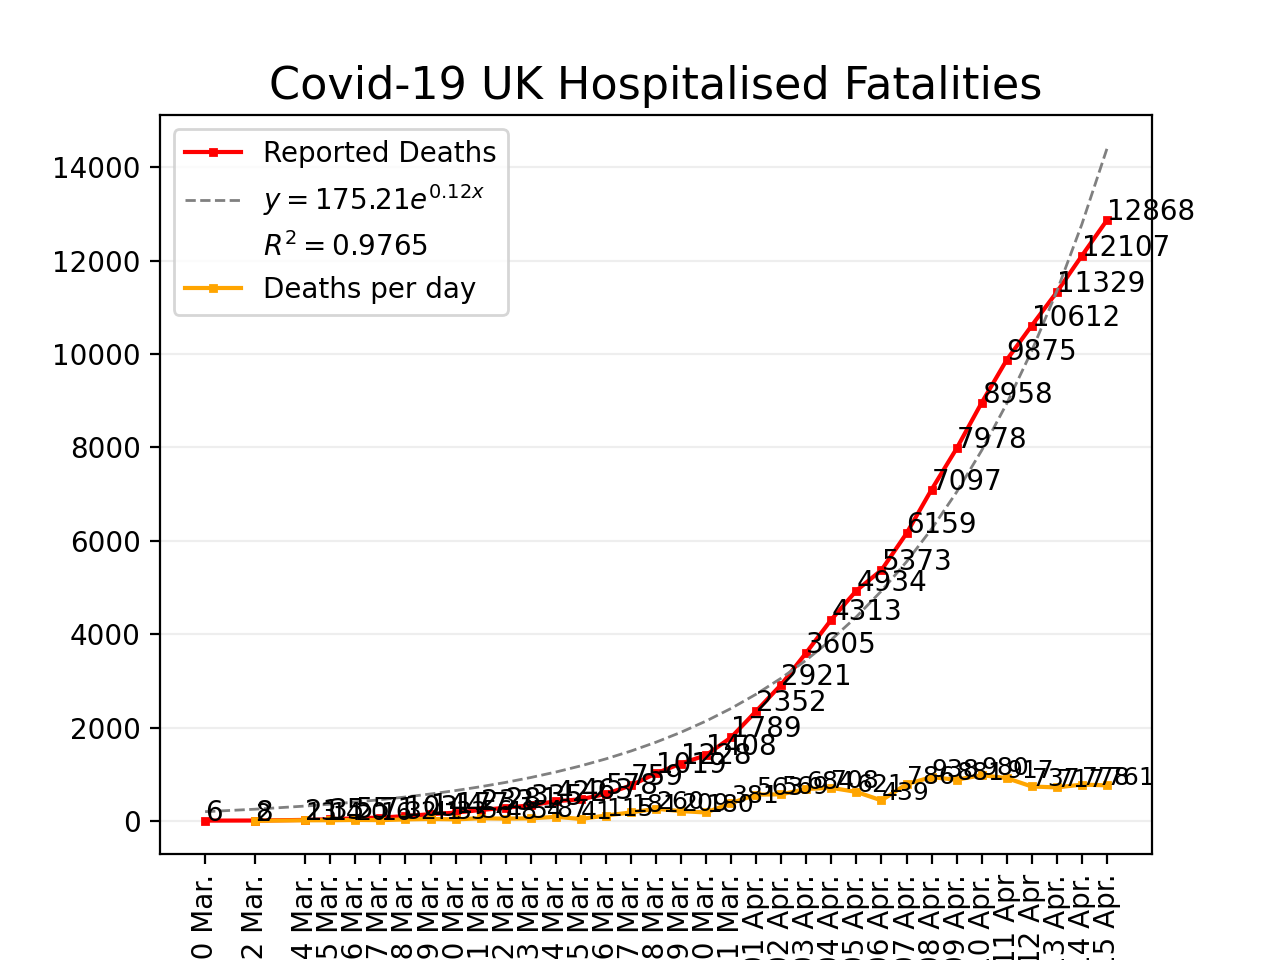
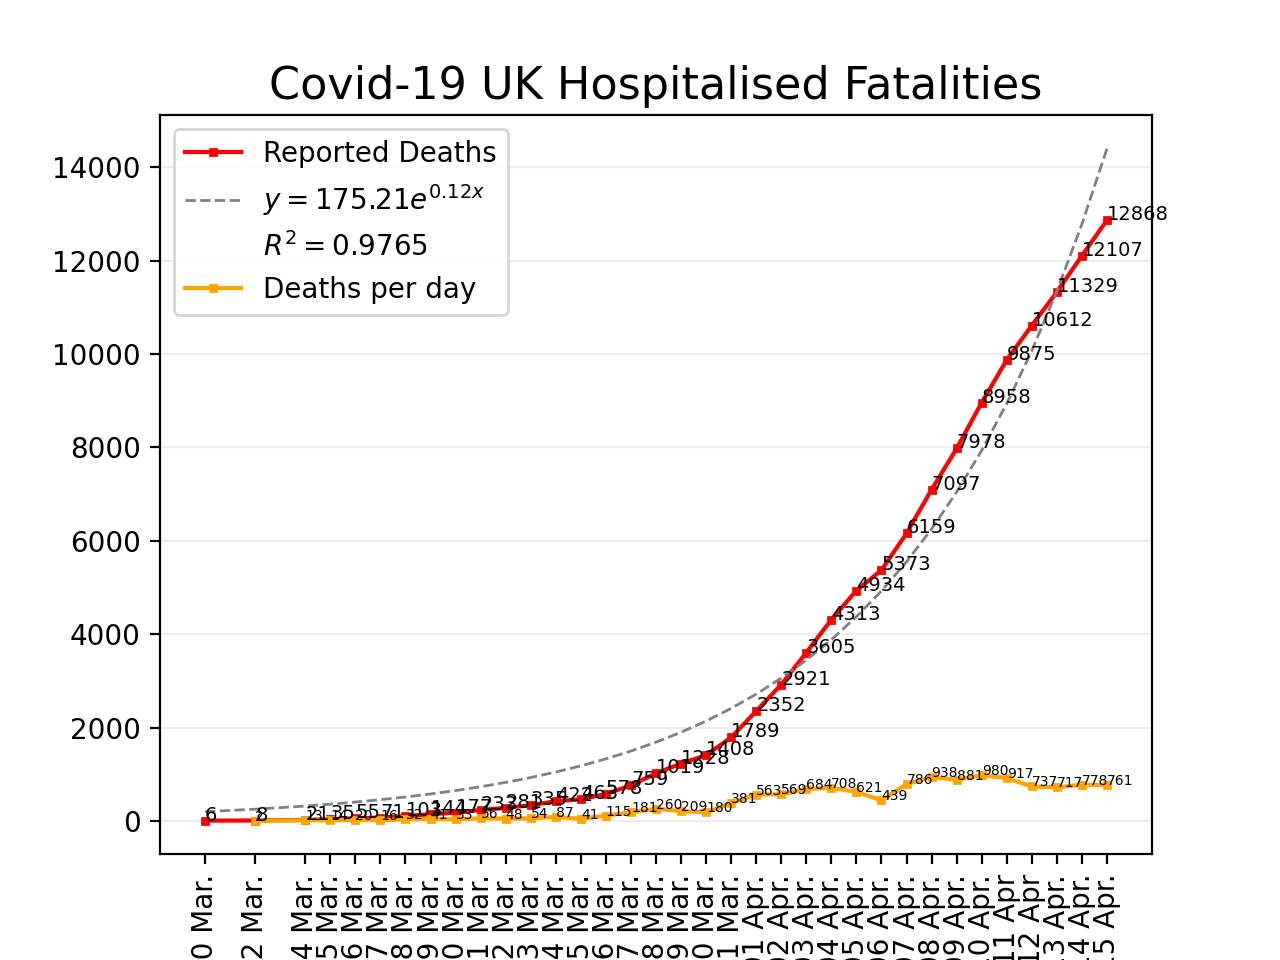
Updates fontsize

Changed region(s): [[0.25, 0.1875, 0.9375, 0.875], [0.1562, 0.8438, 0.2188, 0.875]]

diff --git a/plot.py b/plot.py
@@ -89,10 +89,10 @@ plt.plot(
 
 # Annotate each point with its value
 for a, b in zip(x, y):
-    plt.text(a, b, str(b), fontsize=10, color='black')
+    plt.text(a, b, str(b), fontsize=7, color='black')
 
 for a, b in zip(x_diffs, diffs):
-    plt.text(a, b, str(b), fontsize=9, color='black')
+    plt.text(a, b, str(b), fontsize=5, color='black')
 
 plt.grid(axis='y', which='major', color='#eeeeee', linestyle='-')
 plt.xticks(x, labels, rotation='vertical')
